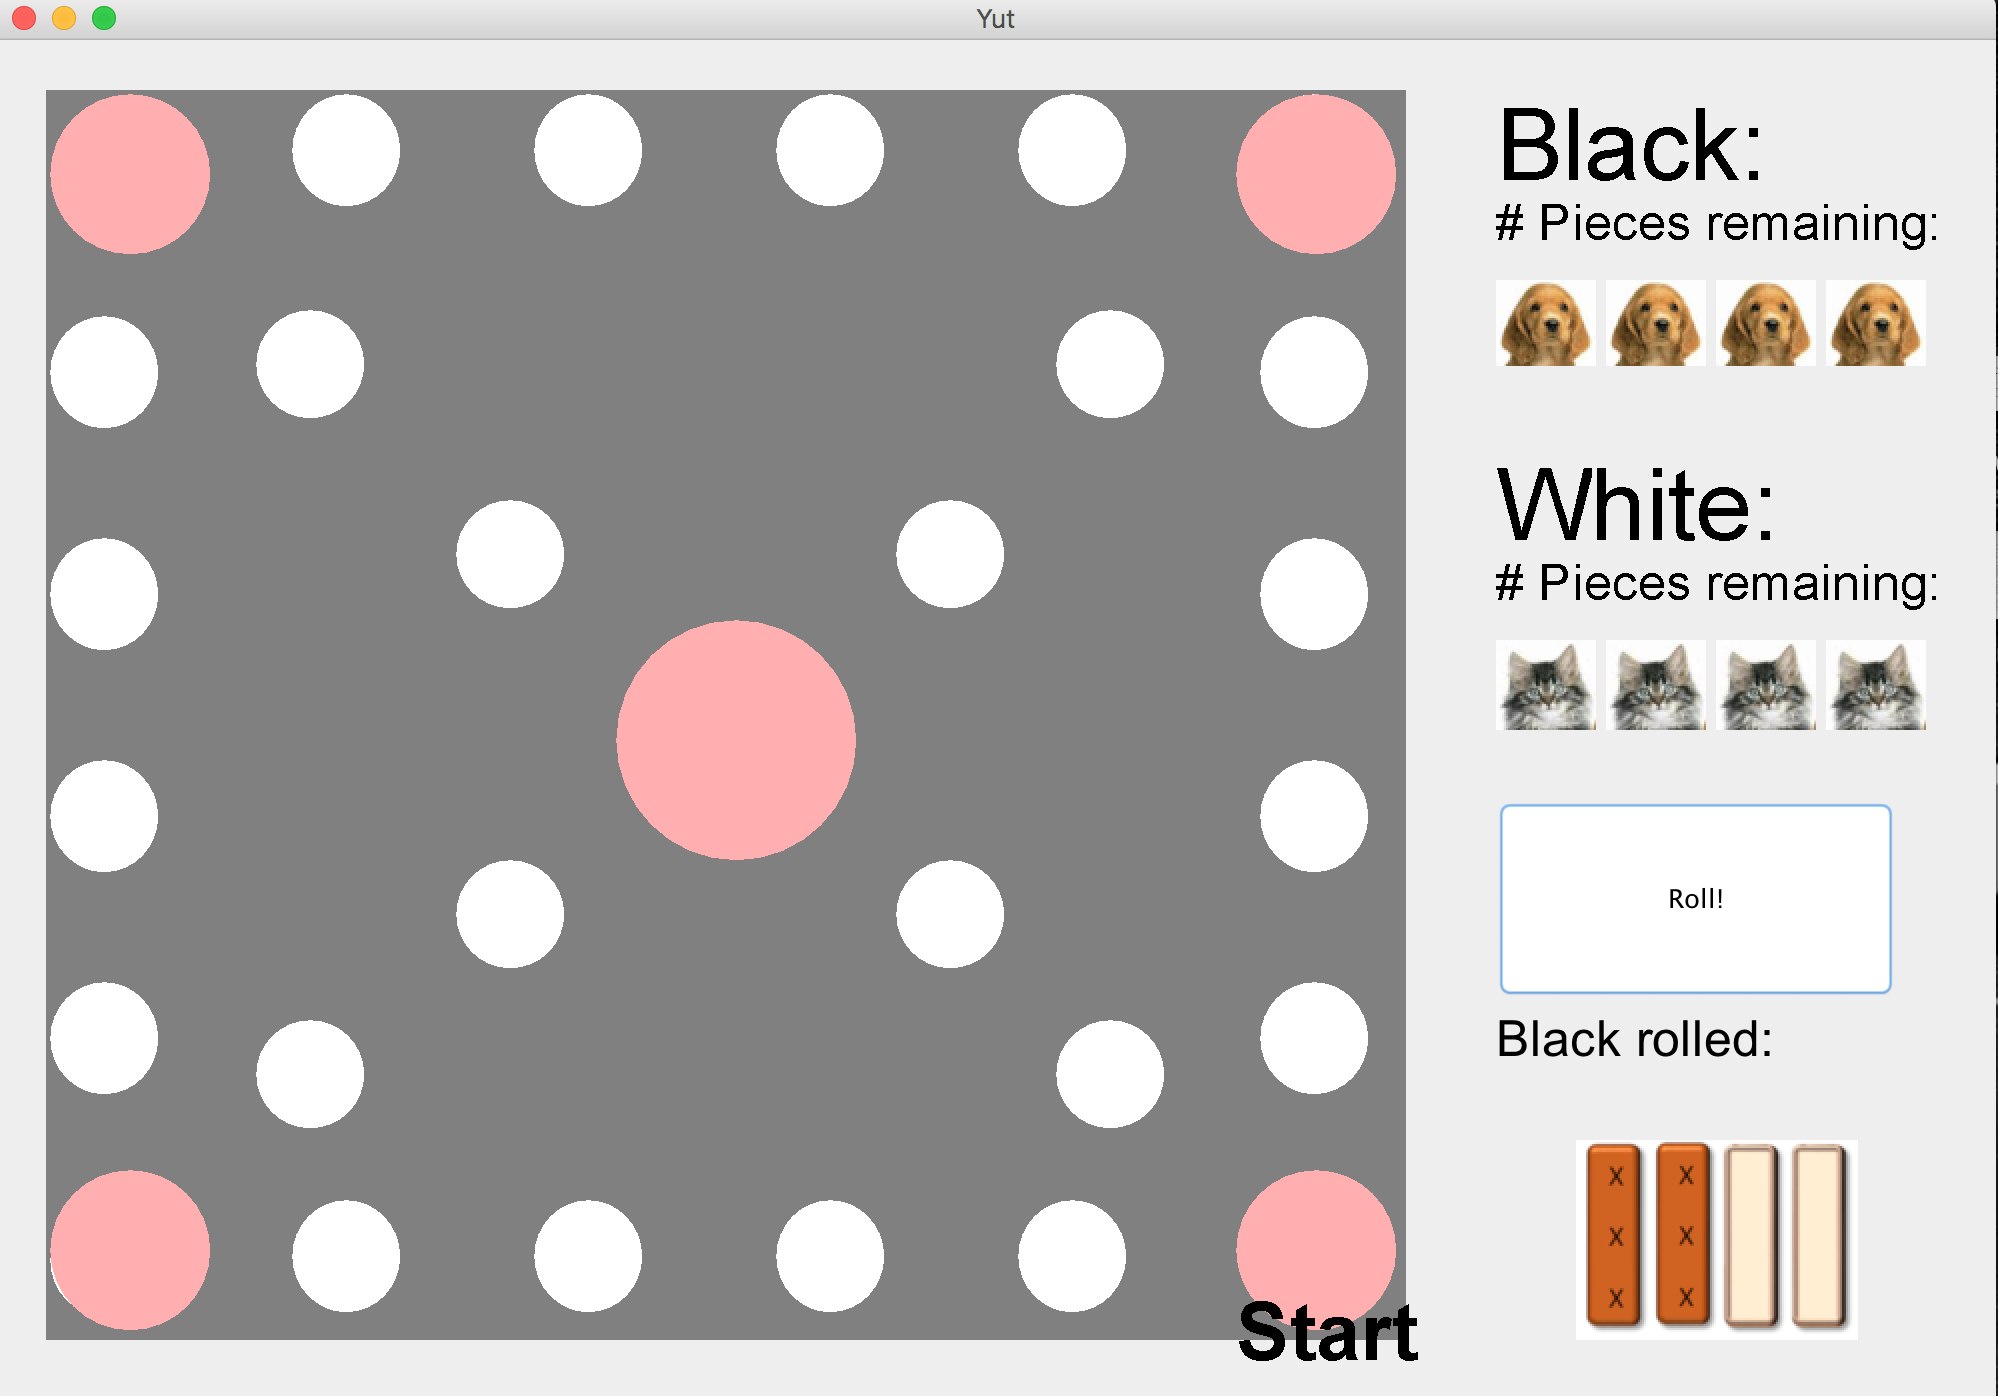
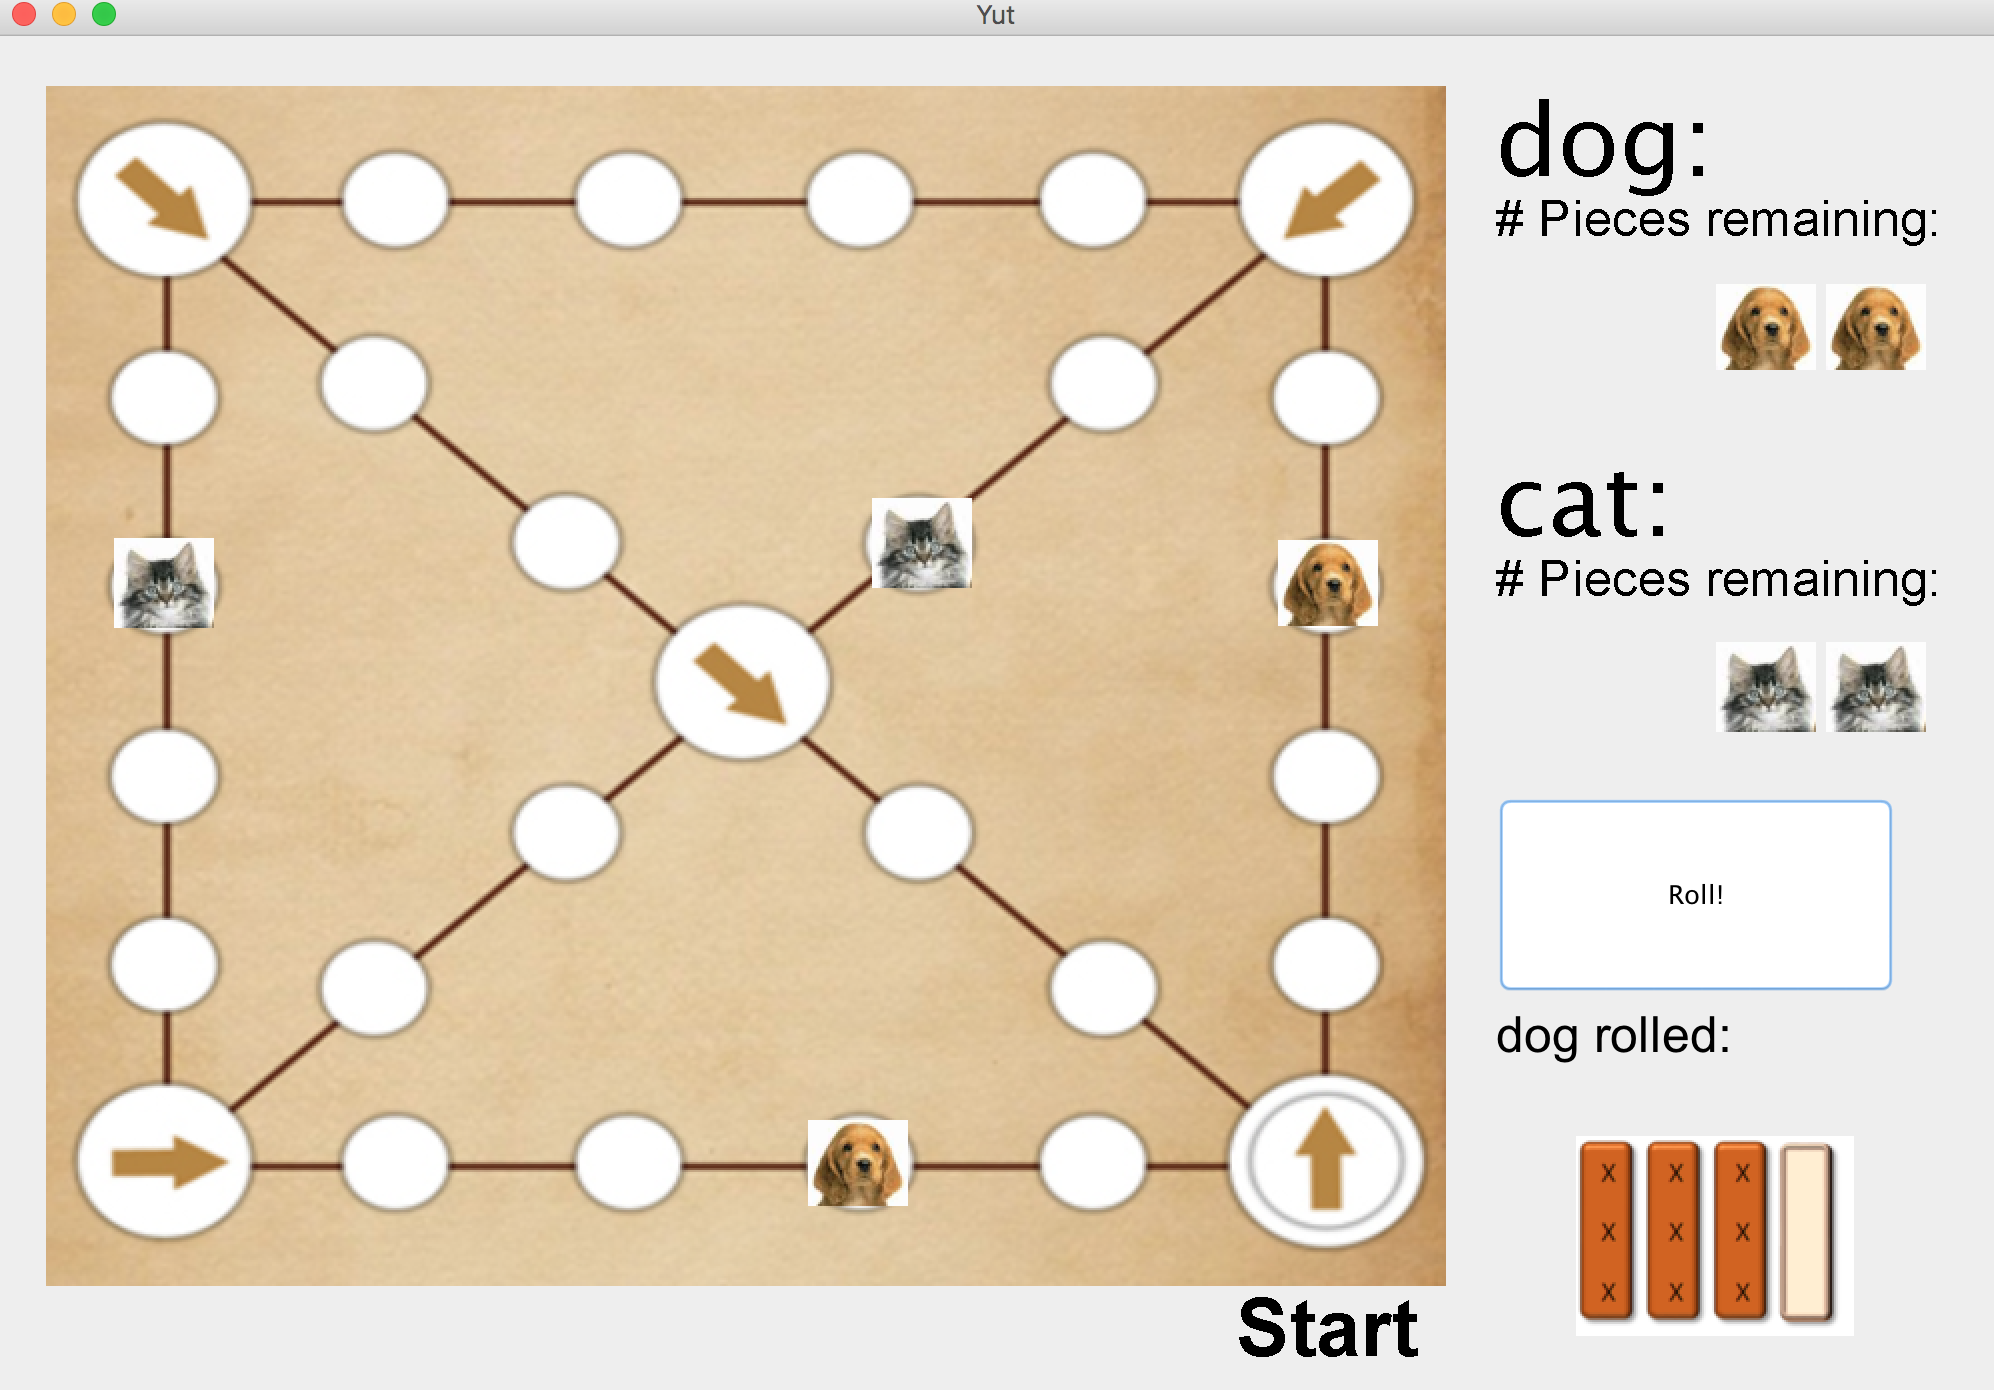
added usernames, fixed bugs

diff --git a/src/GUI.java b/src/GUI.java
@@ -16,7 +16,7 @@ public class GUI extends JPanel {
 	private static ImageIcon image2;
 	//private static 
 	public static JFrame frame;
-	public static String player = "Black";
+	public static String player;
 	private static String player1;
 	private static String player2;
     public static void main(String[] args){
@@ -25,7 +25,7 @@ public class GUI extends JPanel {
 	player1 =  JOptionPane.showInputDialog(null,"Enter Player 1's name");
 	player2 =  JOptionPane.showInputDialog(null,"Enter Player 2's name");
 //	JOptionPane.showMessageDialog(null,message);
-	
+	player = player1;
 //	System.out.println(message);
     	frame = new JFrame("Yut");
     	
@@ -261,7 +261,7 @@ public class GUI extends JPanel {
 	g.setColor(Color.black);
     	g.setFont(new Font("Arial",Font.BOLD, 40)); 
     	g.drawString("Start", 620, 660);
-    	g.setFont(new Font("Arial",Font.PLAIN, 50)); 
+    	g.setFont(new Font("Monotype corsiva",Font.PLAIN, 50)); 
     	g.drawString(player1+":", 750, 70);
     	g.drawString(player2+":", 750, 250);
     	g.setFont(new Font("Arial",Font.PLAIN, 25)); 

diff --git a/src/Movement.java b/src/Movement.java
@@ -2,14 +2,14 @@ import java.awt.event.MouseEvent;
 import java.awt.event.MouseListener;
 import java.awt.event.MouseMotionListener;
 import java.util.ArrayList;
-
+import javax.swing.*;
 import javax.swing.JPanel;
 
 public class Movement implements MouseListener, MouseMotionListener{
 	private int x,y;
 	
-	public Movement(ArrayList<JPanel> lst) {
-		for (JPanel panel:lst) {
+	public Movement(ArrayList<JLabel> lst) {
+		for (JLabel panel:lst) {
 			panel.addMouseListener(this);
 			panel.addMouseMotionListener(this);
 		}
